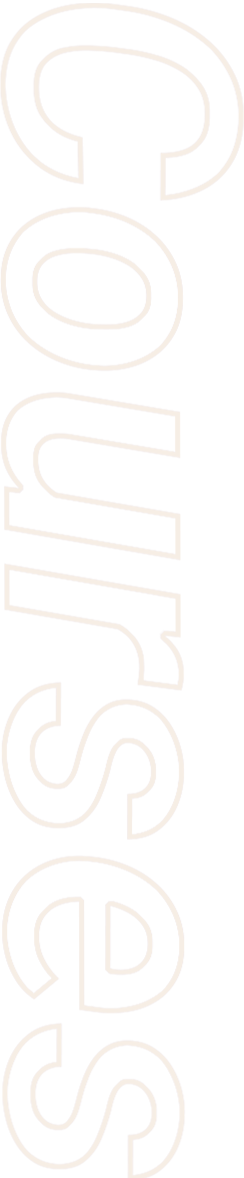
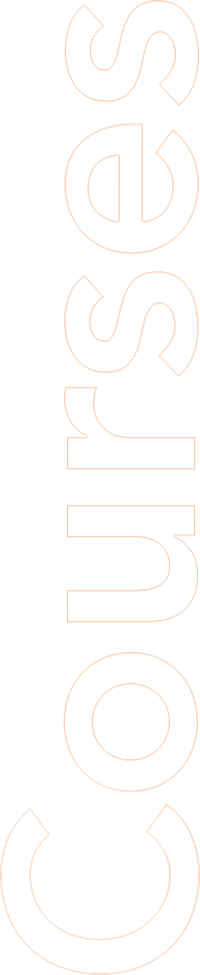
section_6

diff --git a/dist/app.css b/dist/app.css
@@ -609,18 +609,17 @@ section h3 {
 }
 .courses .Background_shapes .coursesshape {
   top: 25%;
-  right: -2%;
+  right: 0%;
   z-index: -5;
 }
 .courses .Background_shapes .coursesshape img {
-  width: 60%;
+  width: 70%;
 }
 
 .fromTheBlog {
   background-color: #f5f7fa;
   position: relative;
   overflow: hidden;
-  z-index: -10;
 }
 .fromTheBlog .titles {
   text-align: center;
@@ -687,6 +686,7 @@ section h3 {
 .fromTheBlog .blogs .blog:nth-child(2) {
   width: 40%;
   position: relative;
+  z-index: 10;
 }
 .fromTheBlog .blogs .blog:nth-child(2) .info {
   position: absolute;
@@ -810,12 +810,12 @@ section h3 {
 }
 .fromTheBlog .Background_shapes > * {
   position: absolute;
+  z-index: 2;
 }
 .fromTheBlog .Background_shapes img {
   width: 100%;
 }
 .fromTheBlog .Background_shapes .line {
-  z-index: -5;
   top: 30%;
   left: 0;
   width: 100%;
@@ -829,10 +829,85 @@ section h3 {
   width: 15%;
   right: 30%;
   bottom: 10%;
-  z-index: -3;
 }
 .fromTheBlog .Background_shapes .greenPois {
   left: 30%;
   top: 15%;
-  z-index: -3;
+}
+
+.upcomingEvents {
+  position: relative;
+  overflow: hidden;
+}
+.upcomingEvents .titles {
+  text-align: center;
+  margin-bottom: 50px;
+}
+.upcomingEvents .events {
+  display: flex;
+  flex-wrap: wrap;
+}
+.upcomingEvents .events .event {
+  display: flex;
+  width: 50%;
+}
+.upcomingEvents .events .event .poster {
+  overflow: hidden;
+  margin-bottom: 50px;
+}
+.upcomingEvents .events .event .poster img {
+  width: 100%;
+  transition: all 2s;
+}
+.upcomingEvents .events .event .info {
+  padding: 30px;
+}
+.upcomingEvents .events .event .info .name {
+  margin: 15px 0;
+}
+.upcomingEvents .events .event .info .name a {
+  text-decoration: none;
+  font-size: 18px;
+  font-weight: 500;
+  color: #000000;
+}
+.upcomingEvents .events .event .info .place {
+  font-size: 16px;
+  font-weight: 300;
+}
+.upcomingEvents .events .event:hover img {
+  transform: scale(1.1);
+}
+.upcomingEvents .events .event:nth-child(1n+3) {
+  flex-direction: row-reverse;
+}
+.upcomingEvents .events .event:nth-child(1n+3) .info {
+  text-align: right;
+}
+.upcomingEvents .Background_shapes > * {
+  position: absolute;
+}
+.upcomingEvents .Background_shapes .transparentStain {
+  top: 7%;
+  right: -10%;
+  z-index: -10;
+}
+.upcomingEvents .Background_shapes .blueStain {
+  transform: rotate(-90deg);
+  top: 40%;
+  left: -10%;
+  z-index: -10;
+}
+.upcomingEvents .Background_shapes .lineball {
+  top: 7%;
+  right: 2%;
+  z-index: -10;
+}
+.upcomingEvents .Background_shapes .eventsshape {
+  top: 25%;
+  left: 2%;
+  z-index: -5;
+}
+.upcomingEvents .Background_shapes .eventsshape img {
+  width: 70%;
 }

diff --git a/index.html b/index.html
@@ -344,7 +344,40 @@
             </section>
             <!-- /SECTION 5 - FROM THE BLOG -->
             <!-- SECTION 6 - UPCOMING EVENTS -->
-            <section class="section_6 upcomingEvents"></section>
+            <section class="section_6 upcomingEvents">
+               <div class="titles">
+                  <h2>Upcoming Events</h2>
+                  <h3>Let's Work Together</h3>
+               </div> 
+               <div class="mediumContainer">
+                  <div class="events">
+                     <div v-for="event in events" class="event">
+                        <div class="poster">
+                           <img :src="'img/section6_IMG/artist-event-' + event.poster + '-250x300.jpg'" alt="event poster">
+                        </div>
+                        <div class="info">
+                           <p class="date">{{event.date}}</p>
+                           <div class="name"><a href="#">{{event.name}}</a></div>
+                           <div class="place"><i class="fas fa-map-marker-alt"></i> {{event.place}}</div>
+                        </div>
+                     </div>
+                     <div class="Background_shapes">
+                        <div class="eventsshape">
+                           <img src="img/shapes/events.png" alt="eventsshape">
+                        </div>
+                        <div class="transparentStain">
+                           <img src="img/shapes/transparentStain.png" alt="transparentStain">
+                        </div>
+                        <div class="blueStain">
+                           <img src="img/shapes/blue_shape.png" alt="blue stain">
+                        </div>
+                        <div class="lineball">
+                           <img src="img/shapes/maxcoach-shape-13.png" alt="lineball">
+                        </div>
+                     </div>
+                  </div>
+               </div>
+            </section>
             <!-- /SECTION 6 - UPCOMING EVENTS -->
             <!-- SECTION 7 - NEWSLETTERS SUBSCRIBE -->
             <section class="section_7 newsLetter"></section>

diff --git a/src/partials/_SCevents.scss b/src/partials/_SCevents.scss
@@ -1,0 +1,78 @@
+.upcomingEvents{
+   position: relative;
+   overflow: hidden;
+   .titles{
+      text-align: center;
+      margin-bottom: $largeMergin;
+   }
+   .events{
+      @include my-display-flex;
+      flex-wrap: wrap;
+      .event{
+         @include my-display-flex;
+         width: 50%;
+         .poster{
+            overflow: hidden;
+            margin-bottom: $largeMergin;
+            img{
+               width: 100%;
+               transition: $picturesTransition;
+            }
+         }
+         .info{
+            padding:$mediumMargin;
+            .name{
+               margin: $smallMargin 0;
+               a{
+                  text-decoration: none;
+                  font-size: $mediumIcons;
+                  font-weight: 500;
+                  color: $black;
+               }
+            }
+            .place{
+               font-size: $fontSmall;
+               font-weight: 300;
+            }
+         }
+         &:hover img{
+            transform: scale(1.1);
+         }
+         &:nth-child(1n+3){
+            flex-direction: row-reverse;
+            .info{
+               text-align: right;
+            }
+         }
+      }
+   }
+   .Background_shapes{
+      > *{
+         position: absolute;
+      }
+      .transparentStain{
+         top: 7%;
+         right: -10%;
+         z-index: -10;
+       }
+       .blueStain{
+         transform: rotate(-90deg);
+         top: 40%;
+         left: -10%;
+         z-index: -10;
+       }
+       .lineball{
+         top: 7%;
+         right: 2%;
+         z-index: -10;
+       }
+       .eventsshape{
+         top: 25%;
+         left: 2%;
+         z-index: -5;
+         img{
+            width: 70%;
+         }
+       }
+   }  
+}

diff --git a/js/script.js b/js/script.js
@@ -109,6 +109,32 @@ var app = new Vue(
                poster: "artist-blog-01-480x356.jpg"
             }
          ],
+         events: [
+            {
+               poster:"04",
+               date: "APR 22, 2022",
+               name: "Storytelling Workshop",
+               place: "Texas, US"
+            },
+            {
+               poster:"03",
+               date: "NOV 23, 2021",
+               name: "International Art Fair 2021",
+               place: "Hamburg, Germany"
+            },
+            {
+               poster:"02",
+               date: "OCT 10, 2021",
+               name: "Painting Art Contest 2021",
+               place: "New York, US"
+            },
+            {
+               poster:"01",
+               date: "DEC 15, 2021",
+               name: "Street Performance:Call for Artist",
+               place: "Illinois, US"
+            }, 
+         ],
       },
    },
 );

diff --git a/src/partials/_SCfromTheBlog.scss b/src/partials/_SCfromTheBlog.scss
@@ -2,7 +2,6 @@
    background-color: $lightBlueBackground;
    position: relative;
    overflow: hidden;
-   z-index: -10;
    .titles{
       text-align: center;
    }
@@ -66,6 +65,7 @@
          &:nth-child(2){
             width: 40%;
             position: relative;
+            z-index: 10;
             .info{
                position: absolute;
                bottom: 0;
@@ -163,12 +163,12 @@
    .Background_shapes{
       > *{
          position: absolute;   
+         z-index: 2;
       }
       img{
          width: 100%;
       }
-      .line{
-         z-index: -5;    
+      .line{   
          top: 30%;
          left: 0;
          width: 100%;
@@ -182,12 +182,10 @@
          width: 15%;
          right: 30%;
          bottom: 10%;
-         z-index: -3;
       }
       .greenPois{
          left: 30%;
          top: 15%;
-         z-index: -3;
       }
    }
 }

diff --git a/src/partials/_SCcourses.scss b/src/partials/_SCcourses.scss
@@ -88,10 +88,10 @@
        }
        .coursesshape{
          top: 25%;
-         right: -2%;
+         right: 0%;
          z-index: -5;
          img{
-            width: 60%;
+            width: 70%;
          }
        }
    }  

diff --git a/src/app.scss b/src/app.scss
@@ -11,3 +11,4 @@
 @import 'partials/_SCtestimonials.scss';
 @import 'partials/_SCcourses.scss';
 @import 'partials/_SCfromTheBlog.scss';
+@import 'partials/_SCevents.scss';
